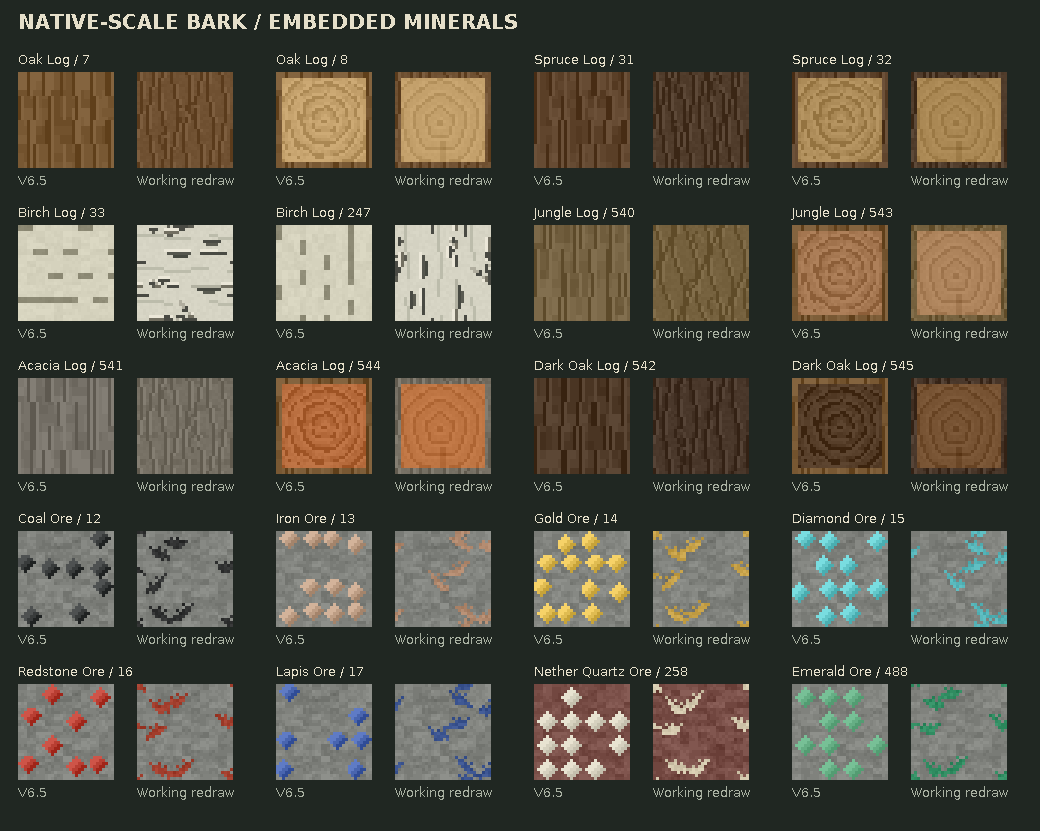
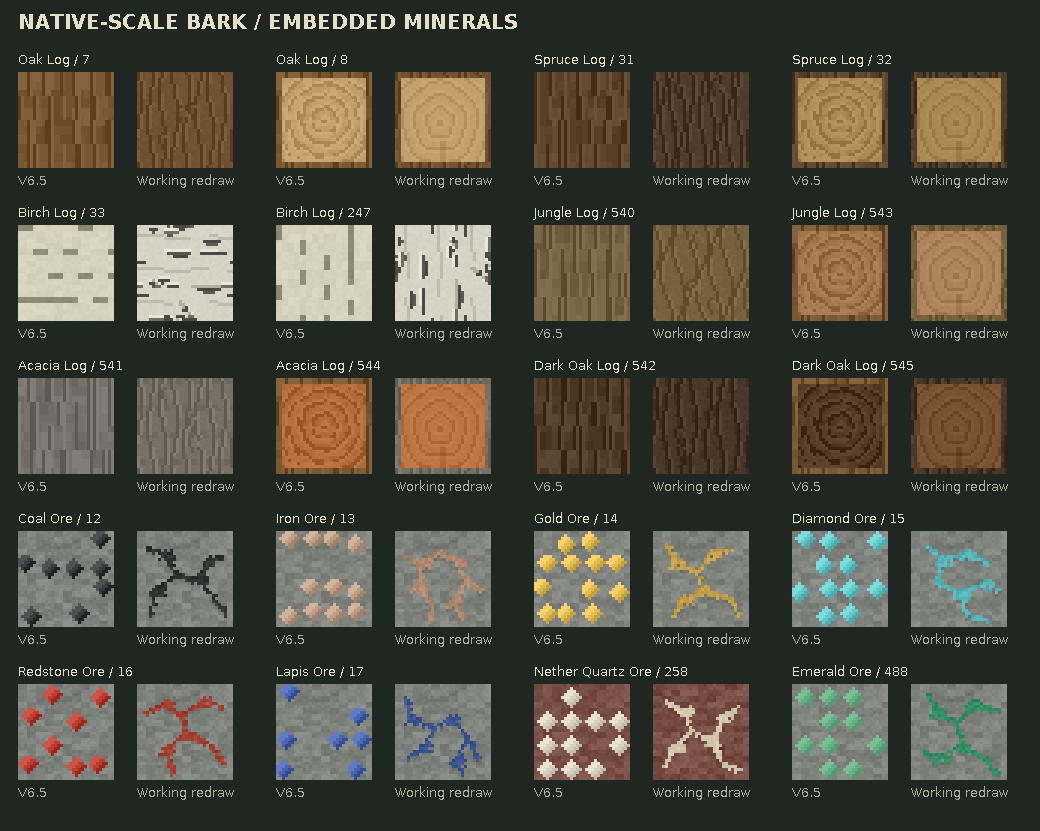
Refine tiled ore deposits into connected mineral-bearing fractures

diff --git a/src/bc/TexColorNature32.java b/src/bc/TexColorNature32.java
@@ -159,15 +159,38 @@ final class TexColorNature32 {
       PixelArt32 a=new PixelArt32();System.arraycopy(host,0,a.p,0,1024);
       int c=t==12?0x343535:t==13?0xB58D72:t==14?0xCBA64D:t==15?0x5AB9BD:t==16?0xA74332:t==17?0x3F5894:t==488?0x369267:0xD7CCB1;
       boolean[] seam=new boolean[1024];
-      int[][] starts={{3,4},{17,2},{25,10},{10,13},{3,25},{19,24},{27,29}};
-      for(int i=0;i<starts.length;i++) {
-         int x=starts[i][0],y=starts[i][1],dir=(i+t)%2==0?1:-1;
-         for(int k=0;k<7+i%3;k++) {
-            x=Math.floorMod(x+dir,32);y=(y+(h(i,k,t)>.5?1:0))&31;
-            seam[y*32+x]=true;
-            if(k>0&&k<7)seam[((y+1)&31)*32+x]=true;
-            if(k>1&&k<5)seam[((y+2)&31)*32+x]=true;
-            if(k==2||k==4)seam[((y-1)&31)*32+((x+dir)&31)]=true;
+      // Three intersecting fractures, with type-specific topology. The previous
+      // short isolated strokes repeated as little checkmarks in a tiled wall.
+      int[][][] veins={
+         {{3,5,9,7,12,14,20,15,26,23,29,27},{12,14,6,19,4,27},{20,15,24,9,28,8}},
+         {{3,8,9,10,14,6,20,9,23,16,28,19},{9,10,7,18,12,24,11,29},{23,16,19,23,22,28}},
+         {{4,4,7,10,14,13,16,19,25,22,28,28},{14,13,19,7,25,6},{16,19,10,22,6,28}},
+         {{5,4,10,9,8,16,16,20,18,27,25,29},{10,9,18,7,25,10},{16,20,24,17,29,19}},
+         {{2,9,9,6,14,10,16,16,23,19,29,26},{14,10,22,5,28,7},{16,16,9,21,11,29}},
+         {{3,4,5,11,13,14,18,11,24,17,27,25},{13,14,9,20,4,24},{24,17,20,25,22,29}},
+         {{4,5,10,8,12,15,19,18,22,25,28,28},{12,15,7,20,3,27},{19,18,23,10,28,7}},
+         {{5,3,8,9,15,12,16,20,23,23,28,29},{15,12,20,6,28,8},{16,20,9,24,4,22}}
+      };
+      int kind=t==258?6:t==488?7:t-12;
+      PixelArt32 fissures=new PixelArt32();
+      for(int[] path:veins[kind])for(int k=2;k<path.length;k+=2)
+         fissures.line(path[k-2],path[k-1],path[k],path[k+1],1);
+      for(int y=1;y<31;y++)for(int x=1;x<31;x++)if(fissures.p[y*32+x]!=0) {
+         seam[y*32+x]=true;
+         if(h(x,y,t+76)>.25F)seam[(y+1)*32+x]=true;
+         if(h(x,y,t+77)>.63F)seam[y*32+x+1]=true;
+      }
+      // Angular mineral pockets grow from the fractures; they are not isolated
+      // round stickers, nor just hairline colored cracks across empty stone.
+      for(int branch=0;branch<veins[kind].length;branch++) {
+         int[] path=veins[kind][branch];
+         for(int k=2;k<path.length-2;k+=4) {
+            int cx=path[k],cy=path[k+1];
+            for(int dy=-1;dy<=2;dy++)for(int dx=-2;dx<=3;dx++) {
+               int x=cx+dx,y=cy+dy;
+               if(x<1||x>30||y<1||y>30)continue;
+               if((dy==0&&dx>-2&&dx<3)||h(x,y,t+branch+93)>.35F&&dx+dy>-2&&dx-dy<4)seam[y*32+x]=true;
+            }
          }
       }
       for(int y=0;y<32;y++)for(int x=0;x<32;x++) {

diff --git a/tools/shots.py b/tools/shots.py
@@ -804,6 +804,7 @@ _RN_SET.append("17,66,4,18") # unchanged full snow block alongside the thin laye
 _RN += ["-Dbc.set="+";".join(_RN_SET)]
 SCENES["pixel-nature-review-plain"] = (_RN+["-Dbc.shaders=false"],True)
 SCENES["pixel-nature-review-lit"] = (_RN,True)
+SCENES["pixel-nature-review-overview"] = ([a for a in _RN if not a.startswith("-Dbc.cam=")]+["-Dbc.cam=9,74,-6,0,28","-Dbc.shaders=false"],True)
 DEFAULT_SCENES = ["title", "day-plain", "mobs", "farm", "farm-close", "sheep36", "pigs36", "inv-creative-2"]
 
 

diff --git a/docs/art-review/colors-nature-review.md b/docs/art-review/colors-nature-review.md
@@ -64,9 +64,19 @@ Reviewed actual nearest-neighbour comparisons (not generated concept art):
 [earth/gourds](colors-nature-earth.png), [logs/ores](colors-nature-logs-ores.png).
 An inspection iteration reduced the pumpkin cap's mechanical spoke appearance,
 strengthened the birch tears, and increased ore seam visibility without adding
-raised outlines around the mineral deposits.
+raised outlines around the mineral deposits. The first in-game tiled wall revealed
+that the short ore strokes repeated as small checkmarks. These were replaced by
+individually laid-out branched fracture networks, widened at angular mineral
+pockets, so the deposits are not isolated glyphs or only hairline cracks.
 
-Pending actual-game validation: `pixel-color-review`, `pixel-glazed-review`,
+Initial remote CI **38495229683** passed with 4,412,628 assertions, zero failures.
+Visual **38495229743** rendered all four scenes (exit 0). Reviewed the colors and
+all 16 glaze designs in the actual game; powder/wool/clay show distinct surface
+structure beside unchanged concrete. The nature shots confirm snow is white on
+top and sides while remaining a shallow layer over dirt. The final ore iteration
+and an elevated log-end/snow view are awaiting the follow-up visual run.
+
+Actual-game fixtures: `pixel-color-review`, `pixel-glazed-review`,
 `pixel-nature-review-plain/lit` use `jar=build`, with unchanged concrete controls,
 all 16 glaze patterns, log/ore walls, visible log ends, soil/rind floors, thin
 snow over dirt and an unchanged snow block alongside it.
